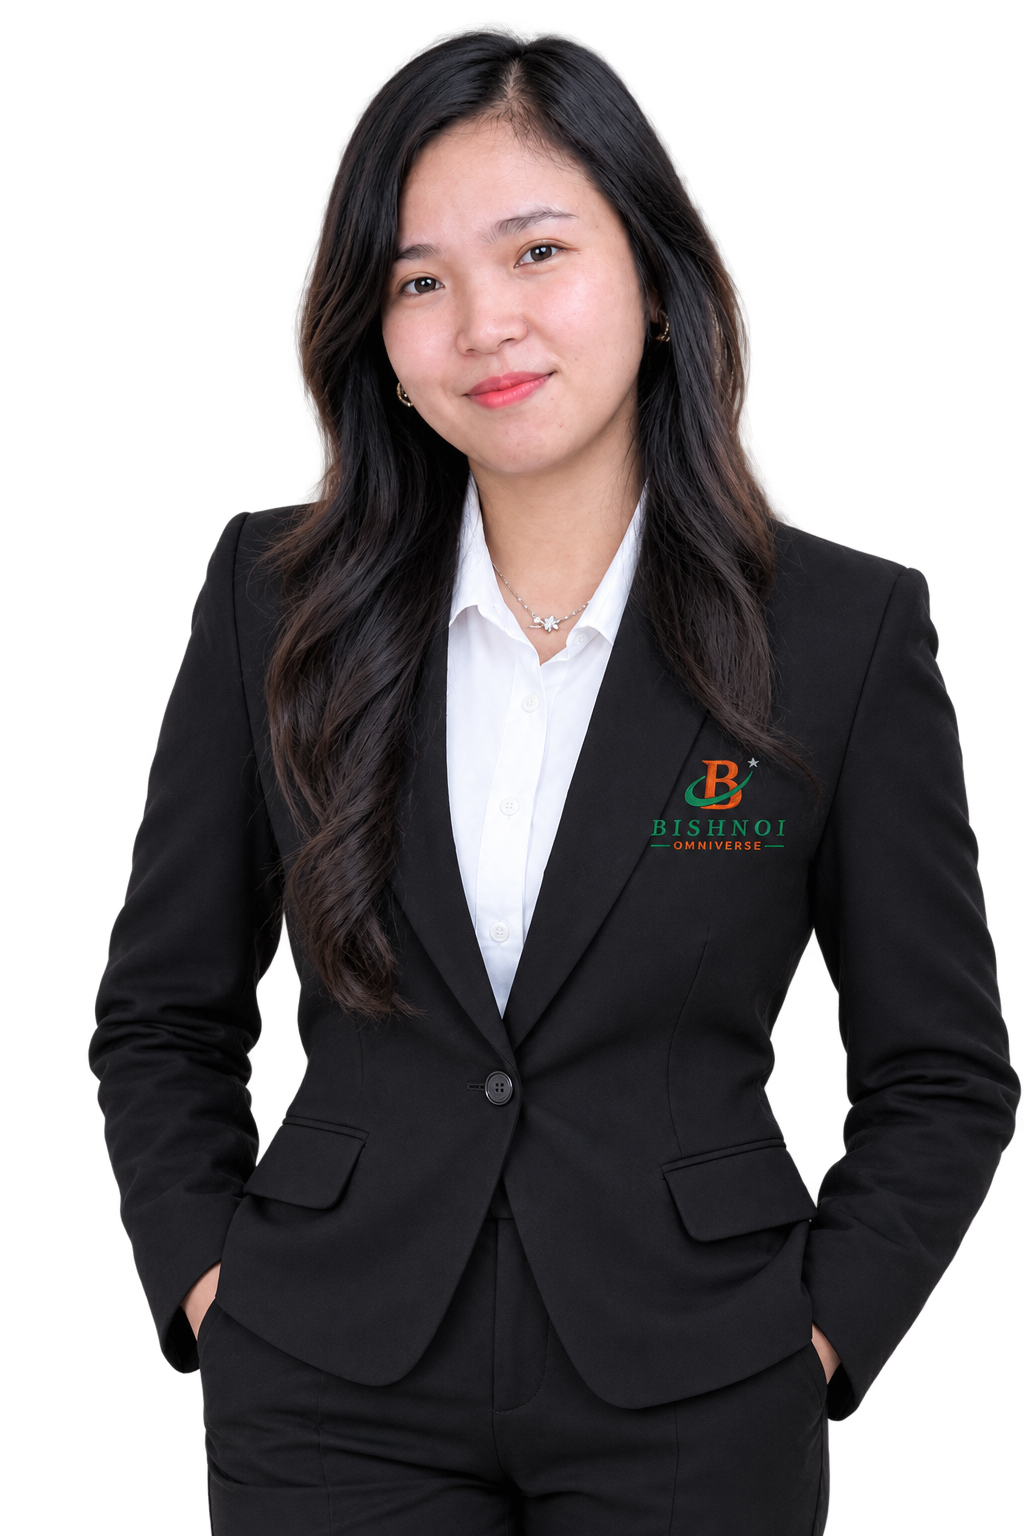
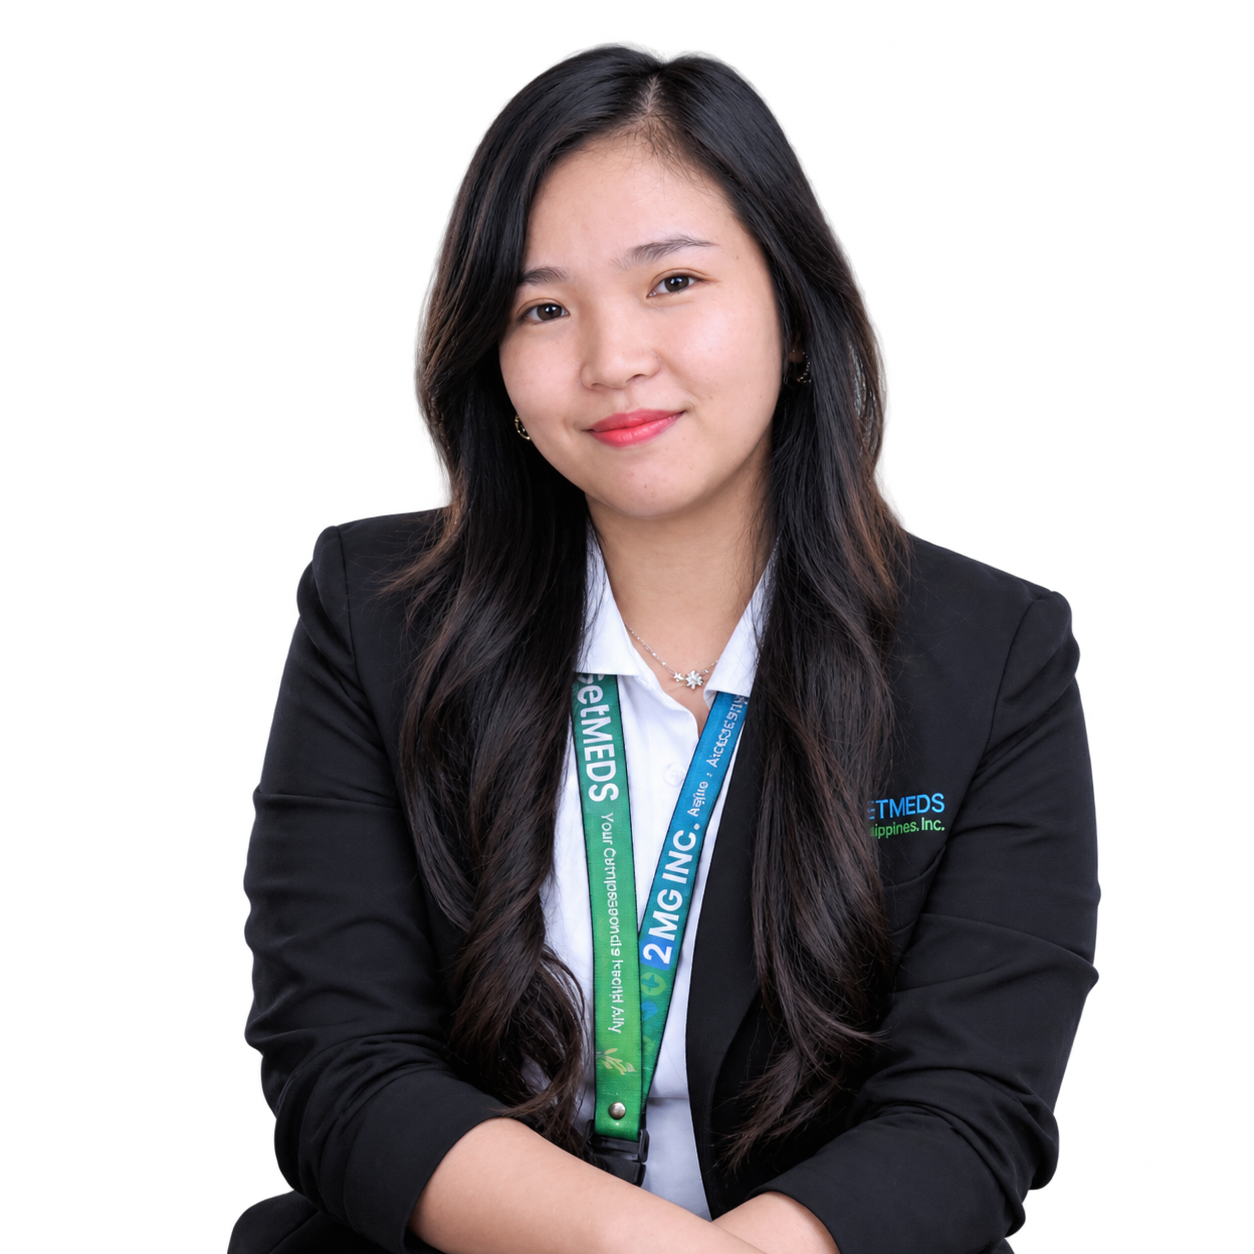
change details and update analytics

diff --git a/app/about/leadership/page.tsx b/app/about/leadership/page.tsx
@@ -39,15 +39,15 @@ const LEADERS: Leader[] = [
   },
   {
     name: 'Esther Roselle Chong',
-    title: 'Inlicensing Coach',
+    title: 'In-licensing Mentor',
     photo: chiImg.src,
-    photoAlt: 'Esther Roselle Chong, Inlicensing Coach, in a black Bishnoi Omniverse blazer',
+    photoAlt: 'Esther Roselle Chong, In-licensing Mentor, in a black Bishnoi Omniverse blazer',
   },
   {
     name: 'Dhebbie Valerie B. Rillera',
-    title: 'Inlicensing Mentor',
+    title: 'In-licensing Executive',
     photo: debbieImg.src,
-    photoAlt: 'Dhebbie Valerie B. Rillera, Inlicensing Mentor',
+    photoAlt: 'Dhebbie Valerie B. Rillera, In-licensing Executive',
   },
 ];
 
